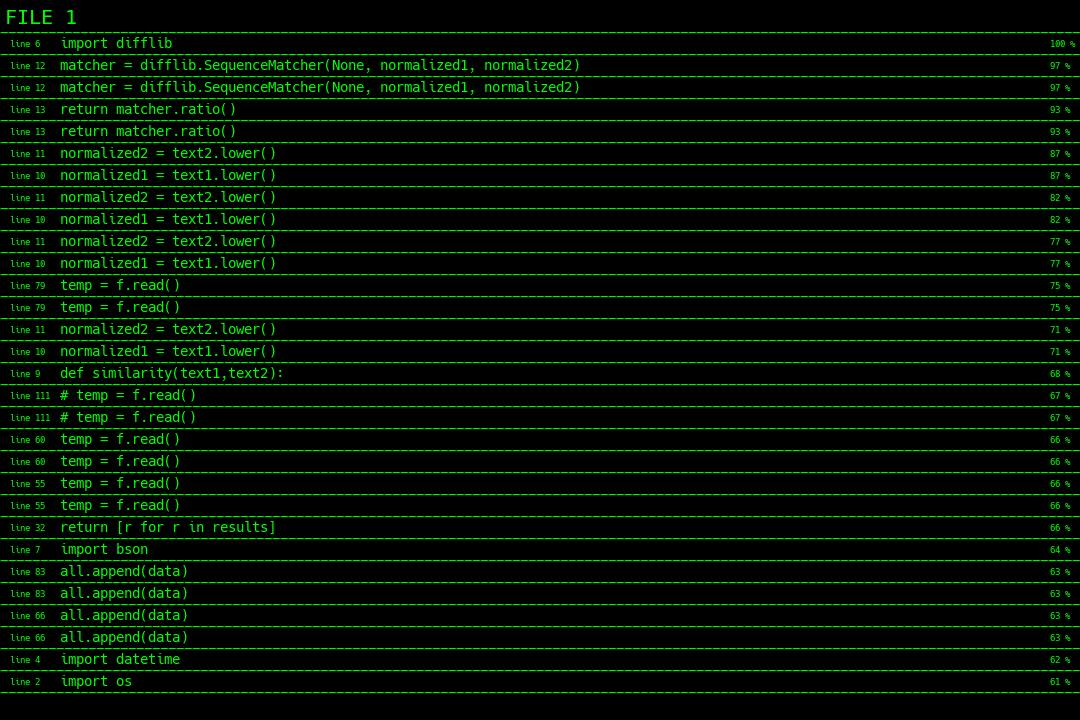
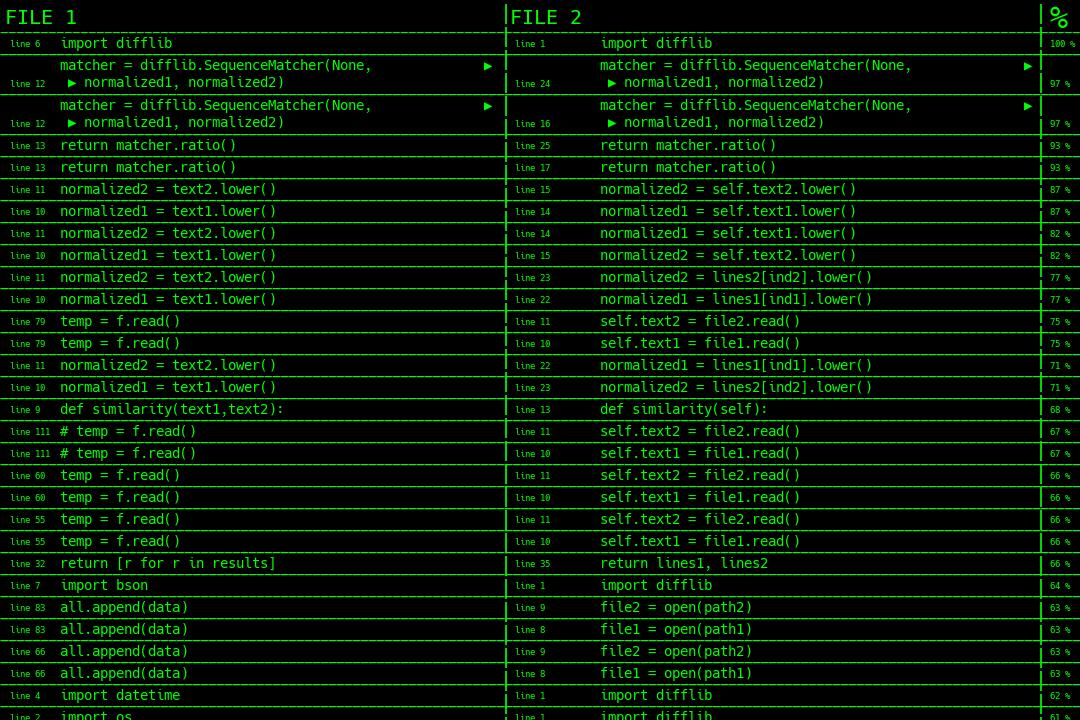
pics generation

Changed region(s): [[0.0, 0.0, 1.0, 1.0], [0.9472, 0.0, 1.0, 0.0611]]

diff --git a/application.py b/application.py
@@ -3,20 +3,29 @@ import text_comparer as tc
 import text_formatter as tf
 
 
-def code_to_image(lines, line_number, percentage, n):
+def code_to_image(lines1, line_number1, percentage1, lines2, line_number2):
     img = Image.new('RGB', (1080, 720), 'black')
-    img.save('pic/pic' + str(n) + '.jpg')
-    img = Image.open('pic/pic' + str(n) + '.jpg')
+    img.save('pic/pic1.jpg')
+    img = Image.open('pic/pic1.jpg')
     n1 = 0
-    for i in range(len(lines)):
-        line = tf.tabs_removing_for_line(lines[i])
-        line = tf.line_wrap(line, 110)
+    for i in range(len(lines1)):
+        line1 = tf.tabs_removing_for_line(lines1[i])
+        line1 = tf.line_wrap(line1, 50)
 
         font = ImageFont.truetype("fonts/Hack-Regular.ttf", size=14)
         idraw = ImageDraw.Draw(img)
-        idraw.text((60, 35 + i * 22 + n1 * 18), line, font=font, fill=(0, 255, 0))
+        idraw.text((60, 35 + i * 22 + n1 * 18), line1, font=font, fill=(0, 255, 0))
 
-        n1 += len(line.strip().split('\n')) - 1
+
+
+        line = tf.tabs_removing_for_line(lines2[i])
+        line = tf.line_wrap(line, 50)
+
+        font = ImageFont.truetype("fonts/Hack-Regular.ttf", size=14)
+        idraw = ImageDraw.Draw(img)
+        idraw.text((540 + 60, 35 + i * 22 + n1 * 18), line, font=font, fill=(0, 255, 0))
+
+        n1 += max(len(line.strip().split('\n')) - 1, len(line1.strip().split('\n')) - 1)
 
         font = ImageFont.truetype("fonts/Hack-Regular.ttf", size=14)
         idraw = ImageDraw.Draw(img)
@@ -24,20 +33,44 @@ def code_to_image(lines, line_number, percentage, n):
 
         font = ImageFont.truetype("fonts/Hack-Regular.ttf", size=9)
         idraw = ImageDraw.Draw(img)
-        idraw.text((10, 38 + i * 22 + n1 * 18), "line " + str(line_number[i]+1), font=font, fill=(0, 255, 0))
+        idraw.text((10, 38 + i * 22 + n1 * 18), "line " + str(line_number1[i]+1), font=font, fill=(0, 255, 0))
 
         font = ImageFont.truetype("fonts/Hack-Regular.ttf", size=9)
         idraw = ImageDraw.Draw(img)
-        idraw.text((1050, 38 + i * 22 + n1 * 18), str(round(percentage[i]*100)) + " %", font=font, fill=(0, 255, 0))
+        idraw.text((1050, 38 + i * 22 + n1 * 18), str(round(percentage1[i]*100)) + " %", font=font, fill=(0, 255, 0))
+
+        font = ImageFont.truetype("fonts/Hack-Regular.ttf", size=14)
+        idraw = ImageDraw.Draw(img)
+        idraw.text((0, 18 + 22 + i * 22 + n1 * 18), "_" * 150, font=font, fill=(0, 255, 0))
+
+        font = ImageFont.truetype("fonts/Hack-Regular.ttf", size=9)
+        idraw = ImageDraw.Draw(img)
+        idraw.text((505 + 10, 38 + i * 22 + n1 * 18), "line " + str(line_number2[i] + 1), font=font, fill=(0, 255, 0))
 
     font = ImageFont.truetype("fonts/Hack-Regular.ttf", size=14)
     idraw = ImageDraw.Draw(img)
     idraw.text((0, 18), "_" * 150, font=font, fill=(0, 255, 0))
     font = ImageFont.truetype("fonts/Hack-Regular.ttf", size=20)
     idraw = ImageDraw.Draw(img)
-    idraw.text((5, 5), "FILE " + str(n), font=font, fill=(0, 255, 0))
+    idraw.text((5, 5), "FILE 1", font=font, fill=(0, 255, 0))
 
-    img.save('pic/pic' + str(n) + '.jpg')
+    font = ImageFont.truetype("fonts/Hack-Regular.ttf", size=20)
+    idraw = ImageDraw.Draw(img)
+    idraw.text((505 + 5, 5), "FILE 2", font=font, fill=(0, 255, 0))
+
+    font = ImageFont.truetype("fonts/Hack-Regular.ttf", size=20)
+    idraw = ImageDraw.Draw(img)
+    idraw.text((500, 0), "|\n"*150, font=font, fill=(0, 255, 0))
+
+    font = ImageFont.truetype("fonts/Hack-Regular.ttf", size=20)
+    idraw = ImageDraw.Draw(img)
+    idraw.text((1035, 0), "|\n" * 150, font=font, fill=(0, 255, 0))
+
+    font = ImageFont.truetype("fonts/Hack-Regular.ttf", size=30)
+    idraw = ImageDraw.Draw(img)
+    idraw.text((1050, 0), "%", font=font, fill=(0, 255, 0))
+
+    img.save('pic/pic1.jpg')
 
 
 def similar_strings(path1, path2, n):
@@ -69,8 +102,7 @@ def pics_gen(path1, path2):
         percentage.append(line[4])
     txcp = tc.TextComparer(path1, path2)
     sim = txcp.similarity()
-    code_to_image(lines1, line_numbers1, percentage, 1)
-    code_to_image(lines2, line_numbers2, percentage, 2)
+    code_to_image(lines1, line_numbers1, percentage, lines2, line_numbers2)
     return sim
 
 
